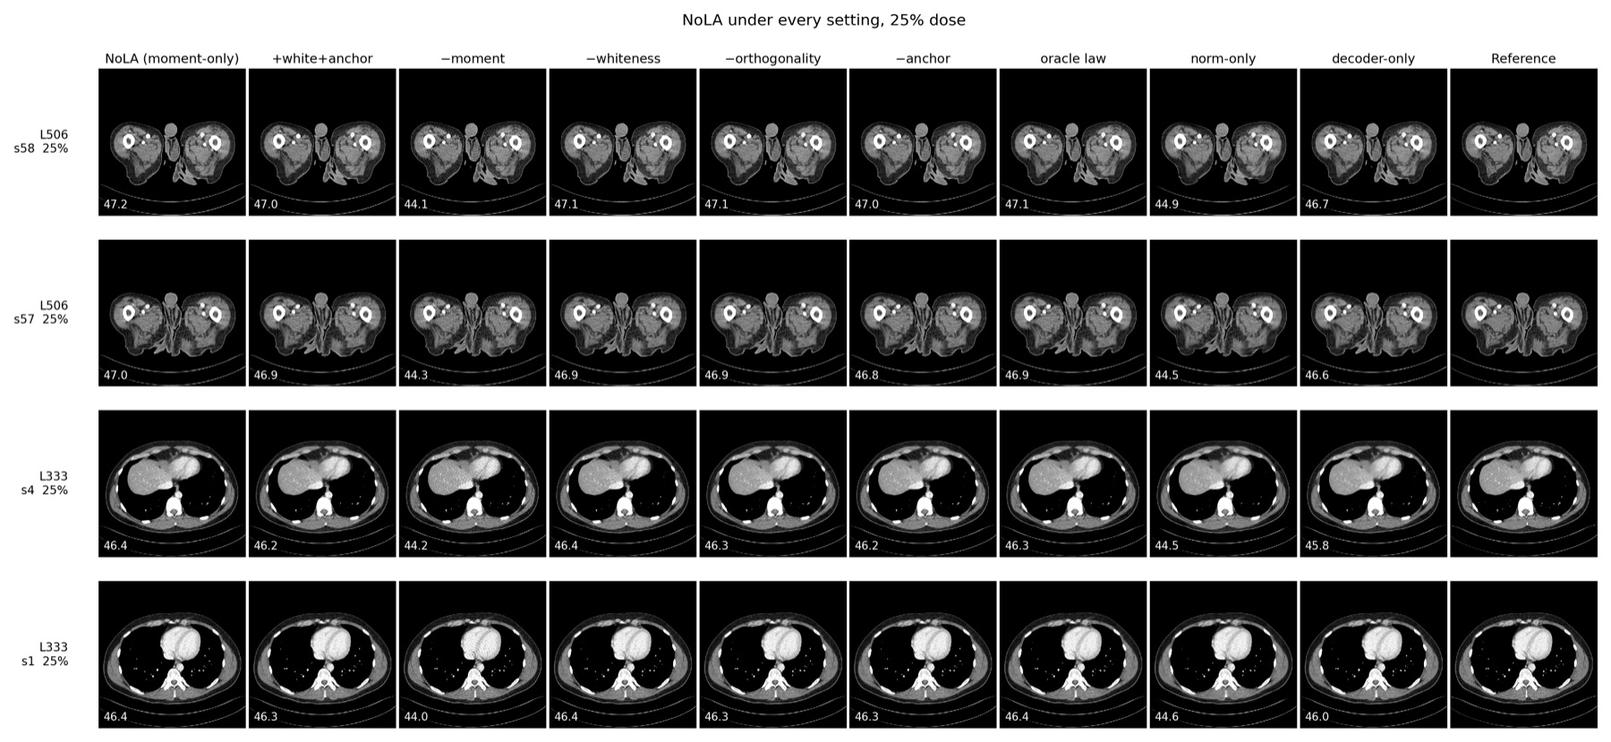
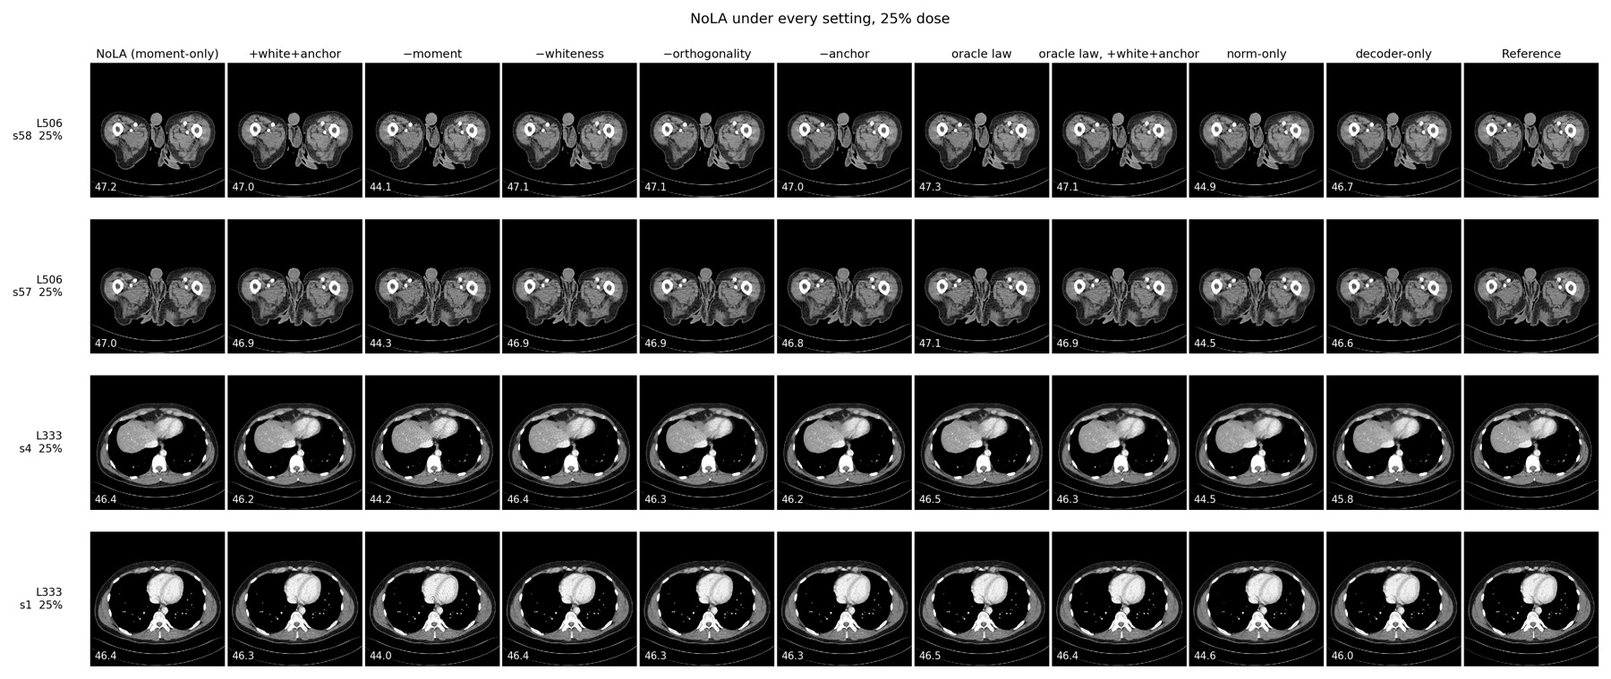
Oracle-law row rerun with the final objective (like-for-like); site law/rho columns read from the audit

diff --git a/docs/index.html b/docs/index.html
@@ -394,8 +394,10 @@ footer a{color:var(--accent)}
   40.55 (−1.65 dB)</b>, worse on three of four patients, better on one — and
   <b>+2.22 dB better than the previous formulation</b> on 100% of slices: the
   whiteness and anchor terms were responsible for most of the earlier failure.
-  Global-Variance TTA is actively destructive here (max|ρ| 0.834, the most
-  correlated residual of any method). Only supervised fine-tuning helps
+  It is not estimation error: the estimated law is within 3% of the truth, and
+  the same objective run with the <i>true</i> law is worse still (36.30 dB) while
+  matching the law better. Global-Variance TTA is actively destructive here
+  (max|ρ| 0.834, the most correlated residual of any method). Only supervised fine-tuning helps
   (+2.27 dB). The mismatch score flags this regime in advance: D = 1.05,
   the borderline the controlled grid identified.</p>
   <figure>
@@ -426,8 +428,9 @@ footer a{color:var(--accent)}
   <h3>Estimator accuracy</h3>
   <p>From unlabelled sinograms of the six adaptation patients, relative error on
   (I₀, σ<sub>e</sub>) is (4.3%, 7.9%) at 25% dose, (2.9%, 4.5%) at 10% and
-  (2.4%, 5.7%) at 5%. Supplying the <i>true</i> law instead of the estimate is
-  worth only 0.15 dB — the estimator is not the bottleneck.</p>
+  (2.4%, 5.7%) at 5%. Supplying the <i>true</i> law instead of the estimate,
+  with the objective otherwise unchanged, is worth 0.14 dB (43.64 vs 43.50,
+  on every held-out slice) — the estimator is not the bottleneck.</p>
   <figure>
     <img src="assets/fig7_identifiability.jpg" alt="Identifiability of sigma_e">
     <figcaption><b>Why σ<sub>e</sub> is the harder parameter.</b> The electronic
@@ -489,7 +492,7 @@ python examples/demo.py --target-i0 8000 --target-sigma-e 12</pre>
 </div></footer>
 
 <script>
-const DATA = {"grid": {"cells": [{"i0": 7500.0, "sigma_e": 4.999999999999999, "shift": 0.48427008146732964, "delta_psnr": 1.041401743888855, "diverged": false}, {"i0": 7500.0, "sigma_e": 9.999999999999998, "shift": 0.5038168825848164, "delta_psnr": -0.9437749505043058, "diverged": false}, {"i0": 7500.0, "sigma_e": 0.0, "shift": 0.604892132805058, "delta_psnr": 2.212035608291629, "diverged": false}, {"i0": 7500.0, "sigma_e": 19.999999999999996, "shift": 0.7821219459093485, "delta_psnr": -0.4595564365386977, "diverged": false}, {"i0": 15000.0, "sigma_e": 19.999999999999996, "shift": 0.9209822093415595, "delta_psnr": -0.4325530529022217, "diverged": false}, {"i0": 15000.0, "sigma_e": 9.999999999999998, "shift": 1.0536936093767086, "delta_psnr": 1.507194948196414, "diverged": false}, {"i0": 15000.0, "sigma_e": 4.999999999999999, "shift": 1.2140100375612208, "delta_psnr": 2.343731451034543, "diverged": false}, {"i0": 15000.0, "sigma_e": 0.0, "shift": 1.2980393133650034, "delta_psnr": 2.243452882766725, "diverged": false}, {"i0": 37500.0, "sigma_e": 20.0, "shift": 1.8660606920865557, "delta_psnr": 2.458268642425537, "diverged": false}, {"i0": 37500.0, "sigma_e": 10.0, "shift": 2.0894323105343506, "delta_psnr": 2.5287252902984605, "diverged": false}, {"i0": 37500.0, "sigma_e": 5.0, "shift": 2.177556095246869, "delta_psnr": 2.596667957305904, "diverged": false}, {"i0": 37500.0, "sigma_e": 0.0, "shift": 2.2143300452391586, "delta_psnr": 2.6607798576354966, "diverged": false}, {"i0": 75000.0, "sigma_e": 20.0, "shift": 2.692883003694689, "delta_psnr": 2.888873147964482, "diverged": false}, {"i0": 75000.0, "sigma_e": 10.0, "shift": 2.8383610269050505, "delta_psnr": 2.9683216571807876, "diverged": false}, {"i0": 75000.0, "sigma_e": 5.0, "shift": 2.88842862874868, "delta_psnr": 3.0502535343170223, "diverged": false}, {"i0": 75000.0, "sigma_e": 0.0, "shift": 2.9074772257991035, "delta_psnr": 3.042654466629031, "diverged": false}], "correlations": {"delta_psnr": {"rho": 0.9529411764705882, "p": 1.2096579348829016e-08}, "law_match_b0": {"rho": 0.9676470588235294, "p": 9.132894807195552e-10}}}, "metrics": [{"name": "FBP", "cls": "none", "psnr_op": 33.438, "ssim_op": 0.7448, "sino_nrmse": 0.0183, "psnr": 33.1203, "ssim": 0.7189, "ms_ssim": 0.9461, "vif": 0.5795, "gmsd": 0.0607, "lpips": 0.3674, "dists": 0.2624, "fd_nps_shape_distance": 0.4515, "fd_nps_power_ratio": 4.8572}, {"name": "Source-only", "cls": "labelfree", "psnr_op": 40.5291, "ssim_op": 0.9619, "sino_nrmse": 0.007, "psnr": 38.4882, "ssim": 0.9284, "ms_ssim": 0.98, "vif": 0.3971, "gmsd": 0.0458, "lpips": 0.2323, "dists": 0.2213, "fd_nps_shape_distance": 0.4767, "fd_nps_power_ratio": 0.0767}, {"name": "AdaBN", "cls": "labelfree", "psnr_op": 41.6047, "ssim_op": 0.9684, "sino_nrmse": 0.0064, "psnr": 39.3209, "ssim": 0.9366, "ms_ssim": 0.9842, "vif": 0.4393, "gmsd": 0.0354, "lpips": 0.195, "dists": 0.1917, "fd_nps_shape_distance": 0.6524, "fd_nps_power_ratio": 0.1307}, {"name": "Noise2Inverse (K=2)", "cls": "labelfree", "psnr_op": 41.4708, "ssim_op": 0.9464, "sino_nrmse": null, "psnr": 39.5232, "ssim": 0.9199, "ms_ssim": 0.9828, "vif": 0.4855, "gmsd": 0.0317, "lpips": 0.2314, "dists": 0.1811, "fd_nps_shape_distance": 1.063, "fd_nps_power_ratio": 0.6495}, {"name": "Noise2Inverse (K=4)", "cls": "labelfree", "psnr_op": 36.4484, "ssim_op": 0.925, "sino_nrmse": null, "psnr": 35.5151, "ssim": 0.8968, "ms_ssim": 0.9721, "vif": 0.3789, "gmsd": 0.0648, "lpips": 0.2337, "dists": 0.1746, "fd_nps_shape_distance": 1.2177, "fd_nps_power_ratio": 0.7796}, {"name": "Masked SSL-TTA", "cls": "labelfree", "psnr_op": 40.4464, "ssim_op": 0.9232, "sino_nrmse": 0.0076, "psnr": 39.4051, "ssim": 0.8992, "ms_ssim": 0.9848, "vif": 0.5814, "gmsd": 0.0184, "lpips": 0.203, "dists": 0.1794, "fd_nps_shape_distance": 0.4215, "fd_nps_power_ratio": 0.7142}, {"name": "Global-Variance TTA", "cls": "labelfree", "psnr_op": 43.3445, "ssim_op": 0.9647, "sino_nrmse": 0.006, "psnr": 40.8229, "ssim": 0.9375, "ms_ssim": 0.9871, "vif": 0.5519, "gmsd": 0.0241, "lpips": 0.1358, "dists": 0.1271, "fd_nps_shape_distance": 1.0871, "fd_nps_power_ratio": 0.5074}, {"name": "NoLA", "cls": "ours", "psnr_op": 43.4957, "ssim_op": 0.9665, "sino_nrmse": 0.0054, "psnr": 40.7464, "ssim": 0.9384, "ms_ssim": 0.9871, "vif": 0.5361, "gmsd": 0.0244, "lpips": 0.1398, "dists": 0.139, "fd_nps_shape_distance": 1.0471, "fd_nps_power_ratio": 0.3964}, {"name": "NoLA + white + anchor", "cls": "ablation", "psnr_op": 43.3254, "ssim_op": 0.9659, "sino_nrmse": 0.0054, "psnr": 40.653, "ssim": 0.9374, "ms_ssim": 0.987, "vif": 0.5189, "gmsd": 0.0245, "lpips": 0.1609, "dists": 0.1573, "fd_nps_shape_distance": 0.8876, "fd_nps_power_ratio": 0.3266}, {"name": "NoLA + whiteness", "cls": "ablation", "psnr_op": 43.3217, "ssim_op": 0.9658, "sino_nrmse": 0.0055, "psnr": 40.648, "ssim": 0.9372, "ms_ssim": 0.9871, "vif": 0.5195, "gmsd": 0.0243, "lpips": 0.1604, "dists": 0.157, "fd_nps_shape_distance": 0.8911, "fd_nps_power_ratio": 0.3301}, {"name": "NoLA + anchor", "cls": "ablation", "psnr_op": 43.5928, "ssim_op": 0.9676, "sino_nrmse": 0.0055, "psnr": 40.863, "ssim": 0.9397, "ms_ssim": 0.9873, "vif": 0.5403, "gmsd": 0.0239, "lpips": 0.1355, "dists": 0.1353, "fd_nps_shape_distance": 1.0822, "fd_nps_power_ratio": 0.4024}, {"name": "NoLA oracle law", "cls": "oracle", "psnr_op": 43.4773, "ssim_op": 0.9672, "sino_nrmse": 0.0054, "psnr": 40.7529, "ssim": 0.9387, "ms_ssim": 0.9875, "vif": 0.5212, "gmsd": 0.0233, "lpips": 0.1583, "dists": 0.1553, "fd_nps_shape_distance": 0.8912, "fd_nps_power_ratio": 0.3096}, {"name": "Supervised FT", "cls": "supervised", "psnr_op": 45.0577, "ssim_op": 0.9775, "sino_nrmse": 0.004, "psnr": 41.7811, "ssim": 0.9488, "ms_ssim": 0.9905, "vif": 0.5465, "gmsd": 0.0167, "lpips": 0.1252, "dists": 0.1306, "fd_nps_shape_distance": 1.0233, "fd_nps_power_ratio": 0.2456}, {"name": "RED-CNN (retrained)", "cls": "supervised", "psnr_op": 45.9636, "ssim_op": 0.9795, "sino_nrmse": null, "psnr": 42.5552, "ssim": 0.9539, "ms_ssim": 0.9911, "vif": 0.542, "gmsd": 0.0155, "lpips": 0.1821, "dists": 0.1405, "fd_nps_shape_distance": 2.4311, "fd_nps_power_ratio": 0.1732}, {"name": "CTformer (retrained)", "cls": "supervised", "psnr_op": 38.3589, "ssim_op": 0.8962, "sino_nrmse": null, "psnr": 37.1341, "ssim": 0.8593, "ms_ssim": 0.9765, "vif": 0.4938, "gmsd": 0.0298, "lpips": 0.2685, "dists": 0.2011, "fd_nps_shape_distance": 0.4705, "fd_nps_power_ratio": 1.1909}], "sweep": [{"w": 0.0, "psnr": 43.593, "rho": 0.0997, "law": 0.2132, "nps": 1.082, "lpips": 0.1355}, {"w": 0.1, "psnr": 43.385, "rho": 0.0587, "law": 0.285, "nps": 0.972, "lpips": 0.1514}, {"w": 0.25, "psnr": 43.269, "rho": 0.0312, "law": 0.3371, "nps": 0.919, "lpips": 0.1581}, {"w": 0.5, "psnr": 43.237, "rho": 0.0235, "law": 0.3525, "nps": 0.879, "lpips": 0.1617}, {"w": 1.0, "psnr": 43.325, "rho": 0.0238, "law": 0.2528, "nps": 0.888, "lpips": 0.1609}], "audit": {"25": [{"n": "Source-only", "law": 0.4946, "rho": 0.4067, "psnr": 40.53}, {"n": "AdaBN", "law": 0.354, "rho": 0.2816, "psnr": 41.6}, {"n": "Masked SSL-TTA", "law": 0.6067, "rho": 0.2081, "psnr": 40.45}, {"n": "Global-Variance TTA", "law": 0.4376, "rho": 0.6344, "psnr": 43.34}, {"n": "NoLA", "law": 0.1496, "rho": 0.0997, "psnr": 43.5}, {"n": "NoLA + white + anchor", "law": 0.2528, "rho": 0.0238, "psnr": 43.33}, {"n": "Supervised FT", "law": 0.5441, "rho": 0.0707, "psnr": 45.06}]}};
+const DATA = {"grid": {"cells": [{"i0": 7500.0, "sigma_e": 4.999999999999999, "shift": 0.48427008146732964, "delta_psnr": 1.041401743888855, "diverged": false}, {"i0": 7500.0, "sigma_e": 9.999999999999998, "shift": 0.5038168825848164, "delta_psnr": -0.9437749505043058, "diverged": false}, {"i0": 7500.0, "sigma_e": 0.0, "shift": 0.604892132805058, "delta_psnr": 2.212035608291629, "diverged": false}, {"i0": 7500.0, "sigma_e": 19.999999999999996, "shift": 0.7821219459093485, "delta_psnr": -0.4595564365386977, "diverged": false}, {"i0": 15000.0, "sigma_e": 19.999999999999996, "shift": 0.9209822093415595, "delta_psnr": -0.4325530529022217, "diverged": false}, {"i0": 15000.0, "sigma_e": 9.999999999999998, "shift": 1.0536936093767086, "delta_psnr": 1.507194948196414, "diverged": false}, {"i0": 15000.0, "sigma_e": 4.999999999999999, "shift": 1.2140100375612208, "delta_psnr": 2.343731451034543, "diverged": false}, {"i0": 15000.0, "sigma_e": 0.0, "shift": 1.2980393133650034, "delta_psnr": 2.243452882766725, "diverged": false}, {"i0": 37500.0, "sigma_e": 20.0, "shift": 1.8660606920865557, "delta_psnr": 2.458268642425537, "diverged": false}, {"i0": 37500.0, "sigma_e": 10.0, "shift": 2.0894323105343506, "delta_psnr": 2.5287252902984605, "diverged": false}, {"i0": 37500.0, "sigma_e": 5.0, "shift": 2.177556095246869, "delta_psnr": 2.596667957305904, "diverged": false}, {"i0": 37500.0, "sigma_e": 0.0, "shift": 2.2143300452391586, "delta_psnr": 2.6607798576354966, "diverged": false}, {"i0": 75000.0, "sigma_e": 20.0, "shift": 2.692883003694689, "delta_psnr": 2.888873147964482, "diverged": false}, {"i0": 75000.0, "sigma_e": 10.0, "shift": 2.8383610269050505, "delta_psnr": 2.9683216571807876, "diverged": false}, {"i0": 75000.0, "sigma_e": 5.0, "shift": 2.88842862874868, "delta_psnr": 3.0502535343170223, "diverged": false}, {"i0": 75000.0, "sigma_e": 0.0, "shift": 2.9074772257991035, "delta_psnr": 3.042654466629031, "diverged": false}], "correlations": {"delta_psnr": {"rho": 0.9529411764705882, "p": 1.2096579348829016e-08}, "law_match_b0": {"rho": 0.9676470588235294, "p": 9.132894807195552e-10}}}, "metrics": [{"name": "FBP", "cls": "none", "psnr_op": 33.438, "ssim_op": 0.7448, "sino_nrmse": 0.0183, "psnr": 33.1203, "ssim": 0.7189, "ms_ssim": 0.9461, "vif": 0.5795, "gmsd": 0.0607, "lpips": 0.3674, "dists": 0.2624, "fd_nps_shape_distance": 0.4515, "fd_nps_power_ratio": 4.8572}, {"name": "Source-only", "cls": "labelfree", "psnr_op": 40.5291, "ssim_op": 0.9619, "sino_nrmse": 0.007, "psnr": 38.4882, "ssim": 0.9284, "ms_ssim": 0.98, "vif": 0.3971, "gmsd": 0.0458, "lpips": 0.2323, "dists": 0.2213, "fd_nps_shape_distance": 0.4767, "fd_nps_power_ratio": 0.0767}, {"name": "AdaBN", "cls": "labelfree", "psnr_op": 41.6047, "ssim_op": 0.9684, "sino_nrmse": 0.0064, "psnr": 39.3209, "ssim": 0.9366, "ms_ssim": 0.9842, "vif": 0.4393, "gmsd": 0.0354, "lpips": 0.195, "dists": 0.1917, "fd_nps_shape_distance": 0.6524, "fd_nps_power_ratio": 0.1307}, {"name": "Noise2Inverse (K=2)", "cls": "labelfree", "psnr_op": 41.4708, "ssim_op": 0.9464, "sino_nrmse": null, "psnr": 39.5232, "ssim": 0.9199, "ms_ssim": 0.9828, "vif": 0.4855, "gmsd": 0.0317, "lpips": 0.2314, "dists": 0.1811, "fd_nps_shape_distance": 1.063, "fd_nps_power_ratio": 0.6495}, {"name": "Noise2Inverse (K=4)", "cls": "labelfree", "psnr_op": 36.4484, "ssim_op": 0.925, "sino_nrmse": null, "psnr": 35.5151, "ssim": 0.8968, "ms_ssim": 0.9721, "vif": 0.3789, "gmsd": 0.0648, "lpips": 0.2337, "dists": 0.1746, "fd_nps_shape_distance": 1.2177, "fd_nps_power_ratio": 0.7796}, {"name": "Masked SSL-TTA", "cls": "labelfree", "psnr_op": 40.4464, "ssim_op": 0.9232, "sino_nrmse": 0.0076, "psnr": 39.4051, "ssim": 0.8992, "ms_ssim": 0.9848, "vif": 0.5814, "gmsd": 0.0184, "lpips": 0.203, "dists": 0.1794, "fd_nps_shape_distance": 0.4215, "fd_nps_power_ratio": 0.7142}, {"name": "Global-Variance TTA", "cls": "labelfree", "psnr_op": 43.3445, "ssim_op": 0.9647, "sino_nrmse": 0.006, "psnr": 40.8229, "ssim": 0.9375, "ms_ssim": 0.9871, "vif": 0.5519, "gmsd": 0.0241, "lpips": 0.1358, "dists": 0.1271, "fd_nps_shape_distance": 1.0871, "fd_nps_power_ratio": 0.5074}, {"name": "NoLA", "cls": "ours", "psnr_op": 43.4957, "ssim_op": 0.9665, "sino_nrmse": 0.0054, "psnr": 40.7464, "ssim": 0.9384, "ms_ssim": 0.9871, "vif": 0.5361, "gmsd": 0.0244, "lpips": 0.1398, "dists": 0.139, "fd_nps_shape_distance": 1.0471, "fd_nps_power_ratio": 0.3964}, {"name": "NoLA + white + anchor", "cls": "ablation", "psnr_op": 43.3254, "ssim_op": 0.9659, "sino_nrmse": 0.0054, "psnr": 40.653, "ssim": 0.9374, "ms_ssim": 0.987, "vif": 0.5189, "gmsd": 0.0245, "lpips": 0.1609, "dists": 0.1573, "fd_nps_shape_distance": 0.8876, "fd_nps_power_ratio": 0.3266}, {"name": "NoLA + whiteness", "cls": "ablation", "psnr_op": 43.3217, "ssim_op": 0.9658, "sino_nrmse": 0.0055, "psnr": 40.648, "ssim": 0.9372, "ms_ssim": 0.9871, "vif": 0.5195, "gmsd": 0.0243, "lpips": 0.1604, "dists": 0.157, "fd_nps_shape_distance": 0.8911, "fd_nps_power_ratio": 0.3301}, {"name": "NoLA + anchor", "cls": "ablation", "psnr_op": 43.5928, "ssim_op": 0.9676, "sino_nrmse": 0.0055, "psnr": 40.863, "ssim": 0.9397, "ms_ssim": 0.9873, "vif": 0.5403, "gmsd": 0.0239, "lpips": 0.1355, "dists": 0.1353, "fd_nps_shape_distance": 1.0822, "fd_nps_power_ratio": 0.4024}, {"name": "NoLA oracle law", "cls": "oracle", "psnr_op": 43.6378, "ssim_op": 0.9673, "sino_nrmse": 0.0053, "psnr": 40.866, "ssim": 0.9394, "ms_ssim": 0.9874, "vif": 0.5413, "gmsd": 0.0235, "lpips": 0.1354, "dists": 0.1346, "fd_nps_shape_distance": 1.0628, "fd_nps_power_ratio": 0.4008}, {"name": "NoLA + white + anchor, oracle law", "cls": "ablation", "psnr_op": 43.4773, "ssim_op": 0.9672, "sino_nrmse": 0.0054, "psnr": 40.7529, "ssim": 0.9387, "ms_ssim": 0.9875, "vif": 0.5212, "gmsd": 0.0233, "lpips": 0.1583, "dists": 0.1553, "fd_nps_shape_distance": 0.8912, "fd_nps_power_ratio": 0.3096}, {"name": "Supervised FT", "cls": "supervised", "psnr_op": 45.0577, "ssim_op": 0.9775, "sino_nrmse": 0.004, "psnr": 41.7811, "ssim": 0.9488, "ms_ssim": 0.9905, "vif": 0.5465, "gmsd": 0.0167, "lpips": 0.1252, "dists": 0.1306, "fd_nps_shape_distance": 1.0233, "fd_nps_power_ratio": 0.2456}, {"name": "RED-CNN (retrained)", "cls": "supervised", "psnr_op": 45.9636, "ssim_op": 0.9795, "sino_nrmse": null, "psnr": 42.5552, "ssim": 0.9539, "ms_ssim": 0.9911, "vif": 0.542, "gmsd": 0.0155, "lpips": 0.1821, "dists": 0.1405, "fd_nps_shape_distance": 2.4311, "fd_nps_power_ratio": 0.1732}, {"name": "CTformer (retrained)", "cls": "supervised", "psnr_op": 38.3589, "ssim_op": 0.8962, "sino_nrmse": null, "psnr": 37.1341, "ssim": 0.8593, "ms_ssim": 0.9765, "vif": 0.4938, "gmsd": 0.0298, "lpips": 0.2685, "dists": 0.2011, "fd_nps_shape_distance": 0.4705, "fd_nps_power_ratio": 1.1909}], "sweep": [{"w": 0.0, "psnr": 43.593, "rho": 0.0997, "law": 0.2132, "nps": 1.082, "lpips": 0.1355}, {"w": 0.1, "psnr": 43.385, "rho": 0.0587, "law": 0.285, "nps": 0.972, "lpips": 0.1514}, {"w": 0.25, "psnr": 43.269, "rho": 0.0312, "law": 0.3371, "nps": 0.919, "lpips": 0.1581}, {"w": 0.5, "psnr": 43.237, "rho": 0.0235, "law": 0.3525, "nps": 0.879, "lpips": 0.1617}, {"w": 1.0, "psnr": 43.325, "rho": 0.0238, "law": 0.2528, "nps": 0.888, "lpips": 0.1609}], "audit": {"25": [{"n": "Source-only", "law": 0.4946, "rho": 0.4067, "psnr": 40.53}, {"n": "AdaBN", "law": 0.354, "rho": 0.2816, "psnr": 41.6}, {"n": "Masked SSL-TTA", "law": 0.6067, "rho": 0.2081, "psnr": 40.45}, {"n": "Global-Variance TTA", "law": 0.4376, "rho": 0.6344, "psnr": 43.34}, {"n": "NoLA", "law": 0.1496, "rho": 0.0997, "psnr": 43.5}, {"n": "NoLA oracle law", "law": 0.2793, "rho": 0.0969, "psnr": 43.64}, {"n": "NoLA + white + anchor", "law": 0.2528, "rho": 0.0238, "psnr": 43.33}, {"n": "Supervised FT", "law": 0.5441, "rho": 0.0707, "psnr": 45.06}]}, "audit_extra": [{"n": "NoLA + whiteness", "law": 0.2723, "rho": 0.0186}, {"n": "NoLA + anchor", "law": 0.2132, "rho": 0.0997}, {"n": "NoLA + white + anchor, oracle law", "law": 0.3047, "rho": 0.0202}]};
 (function(){
 const NS="http://www.w3.org/2000/svg";
 const el=(t,a)=>{const e=document.createElementNS(NS,t);for(const k in(a||{}))e.setAttribute(k,a[k]);return e;};
@@ -581,8 +584,8 @@ const ALL=[["name","Method",null],["psnr_op","PSNR_op",1],["ssim_op","SSIM_op",1
   ["gmsd","GMSD",-1],["lpips","LPIPS",-1],["dists","DISTS",-1],
   ["fd_nps_shape_distance","NPS shape",-1],["fd_nps_power_ratio","NPS power",0]];
 const AUD=[["name","Method",null],["law","Law err.",-1],["rho","max|ρ|",-1],["psnr","PSNR_op",1]];
-const STAT={"Source-only":[0.494,0.4067],"AdaBN":[0.354,0.2816],"NoLA":[0.253,0.0238],
-  "Supervised FT":[0.544,0.0707],"-whiteness":[0.213,0.0997]};
+const STAT=Object.fromEntries([...(((DATA.audit||{})["25"])||[]),...(DATA.audit_extra||[])]
+  .map(a=>[a.n,[a.law,a.rho]]));
 const CLSCOL={none:GREY,labelfree:BLUE,ours:OURS,oracle:WARN,supervised:OK,ablation:"#8892a0"};
 function enrich(){
   const base=(DATA.metrics||[]).find(x=>x.name==="Source-only");
@@ -638,7 +641,7 @@ function drawTable(){
   render("tmain",MAIN,all.filter(r=>HEADLINE.includes(r.name)),S1);
   render("tall",ALL,all,S2,GRP);
   render("taud",AUD,DATA.audit["25"].map(d=>({name:d.n,law:d.law,rho:d.rho,psnr:d.psnr,
-    cls:d.n==="NoLA"?"ours":(d.n==="Supervised FT"?"supervised":"labelfree")})),S3);
+    cls:d.n==="NoLA"?"ours":(d.n==="Supervised FT"?"supervised":(d.n==="NoLA oracle law"?"oracle":"labelfree"))})),S3);
   document.getElementById("tablegend").innerHTML=
     [["no denoising",GREY],["label-free",BLUE],["NoLA (ours)",OURS],
      ["oracle law",WARN],["supervised on target",OK]].map(([l,c])=>
@@ -680,13 +683,13 @@ function drawAudit(){
   [40,41,42,43,44,45].forEach(g=>{if(g<y0||g>y1)return;
     s.appendChild(el("line",{x1:L,x2:W-R,y1:Y(g),y2:Y(g),class:"gr"}));
     const t=el("text",{x:L-7,y:Y(g)+3,class:"tx","text-anchor":"end"});t.textContent=g;s.appendChild(t);});
-  const col=n=>n==="NoLA"?OURS:(n==="Supervised FT"?OK:(n==="NoLA + white + anchor"?"#8892a0":BLUE));
+  const col=n=>n==="NoLA"?OURS:(n==="Supervised FT"?OK:(n==="NoLA + white + anchor"?"#8892a0":(n==="NoLA oracle law"?WARN:BLUE)));
   pts.forEach(q=>{
     const c=el("circle",{cx:X(q.law),cy:Y(q.psnr),r:q.n==="NoLA"?6.5:4.6,fill:col(q.n),
       stroke:"#fff","stroke-width":1.4});
     const ti=el("title");ti.textContent=q.n+": law "+q.law.toFixed(3)+", max|ρ| "+
       q.rho.toFixed(4)+", "+q.psnr.toFixed(2)+" dB";c.appendChild(ti);s.appendChild(c);
-    const dy=(q.n==="Global-Variance TTA"||q.n==="AdaBN")?-9:5;
+    const dy=(q.n==="Global-Variance TTA"||q.n==="AdaBN"||q.n==="NoLA oracle law")?-9:5;
     const t=el("text",{x:X(q.law)+9,y:Y(q.psnr)+dy,class:"tx",fill:col(q.n),
       style:q.n==="NoLA"?"font-weight:700":""});t.textContent=q.n;s.appendChild(t);});
   const xl=el("text",{x:(L+W-R)/2,y:H-8,class:"tx","text-anchor":"middle"});

diff --git a/docs/index.template.html b/docs/index.template.html
@@ -394,8 +394,10 @@ footer a{color:var(--accent)}
   40.55 (−1.65 dB)</b>, worse on three of four patients, better on one — and
   <b>+2.22 dB better than the previous formulation</b> on 100% of slices: the
   whiteness and anchor terms were responsible for most of the earlier failure.
-  Global-Variance TTA is actively destructive here (max|ρ| 0.834, the most
-  correlated residual of any method). Only supervised fine-tuning helps
+  It is not estimation error: the estimated law is within 3% of the truth, and
+  the same objective run with the <i>true</i> law is worse still (36.30 dB) while
+  matching the law better. Global-Variance TTA is actively destructive here
+  (max|ρ| 0.834, the most correlated residual of any method). Only supervised fine-tuning helps
   (+2.27 dB). The mismatch score flags this regime in advance: D = 1.05,
   the borderline the controlled grid identified.</p>
   <figure>
@@ -426,8 +428,9 @@ footer a{color:var(--accent)}
   <h3>Estimator accuracy</h3>
   <p>From unlabelled sinograms of the six adaptation patients, relative error on
   (I₀, σ<sub>e</sub>) is (4.3%, 7.9%) at 25% dose, (2.9%, 4.5%) at 10% and
-  (2.4%, 5.7%) at 5%. Supplying the <i>true</i> law instead of the estimate is
-  worth only 0.15 dB — the estimator is not the bottleneck.</p>
+  (2.4%, 5.7%) at 5%. Supplying the <i>true</i> law instead of the estimate,
+  with the objective otherwise unchanged, is worth 0.14 dB (43.64 vs 43.50,
+  on every held-out slice) — the estimator is not the bottleneck.</p>
   <figure>
     <img src="assets/fig7_identifiability.jpg" alt="Identifiability of sigma_e">
     <figcaption><b>Why σ<sub>e</sub> is the harder parameter.</b> The electronic
@@ -581,8 +584,8 @@ const ALL=[["name","Method",null],["psnr_op","PSNR_op",1],["ssim_op","SSIM_op",1
   ["gmsd","GMSD",-1],["lpips","LPIPS",-1],["dists","DISTS",-1],
   ["fd_nps_shape_distance","NPS shape",-1],["fd_nps_power_ratio","NPS power",0]];
 const AUD=[["name","Method",null],["law","Law err.",-1],["rho","max|ρ|",-1],["psnr","PSNR_op",1]];
-const STAT={"Source-only":[0.494,0.4067],"AdaBN":[0.354,0.2816],"NoLA":[0.253,0.0238],
-  "Supervised FT":[0.544,0.0707],"-whiteness":[0.213,0.0997]};
+const STAT=Object.fromEntries([...(((DATA.audit||{})["25"])||[]),...(DATA.audit_extra||[])]
+  .map(a=>[a.n,[a.law,a.rho]]));
 const CLSCOL={none:GREY,labelfree:BLUE,ours:OURS,oracle:WARN,supervised:OK,ablation:"#8892a0"};
 function enrich(){
   const base=(DATA.metrics||[]).find(x=>x.name==="Source-only");
@@ -638,7 +641,7 @@ function drawTable(){
   render("tmain",MAIN,all.filter(r=>HEADLINE.includes(r.name)),S1);
   render("tall",ALL,all,S2,GRP);
   render("taud",AUD,DATA.audit["25"].map(d=>({name:d.n,law:d.law,rho:d.rho,psnr:d.psnr,
-    cls:d.n==="NoLA"?"ours":(d.n==="Supervised FT"?"supervised":"labelfree")})),S3);
+    cls:d.n==="NoLA"?"ours":(d.n==="Supervised FT"?"supervised":(d.n==="NoLA oracle law"?"oracle":"labelfree"))})),S3);
   document.getElementById("tablegend").innerHTML=
     [["no denoising",GREY],["label-free",BLUE],["NoLA (ours)",OURS],
      ["oracle law",WARN],["supervised on target",OK]].map(([l,c])=>
@@ -680,13 +683,13 @@ function drawAudit(){
   [40,41,42,43,44,45].forEach(g=>{if(g<y0||g>y1)return;
     s.appendChild(el("line",{x1:L,x2:W-R,y1:Y(g),y2:Y(g),class:"gr"}));
     const t=el("text",{x:L-7,y:Y(g)+3,class:"tx","text-anchor":"end"});t.textContent=g;s.appendChild(t);});
-  const col=n=>n==="NoLA"?OURS:(n==="Supervised FT"?OK:(n==="NoLA + white + anchor"?"#8892a0":BLUE));
+  const col=n=>n==="NoLA"?OURS:(n==="Supervised FT"?OK:(n==="NoLA + white + anchor"?"#8892a0":(n==="NoLA oracle law"?WARN:BLUE)));
   pts.forEach(q=>{
     const c=el("circle",{cx:X(q.law),cy:Y(q.psnr),r:q.n==="NoLA"?6.5:4.6,fill:col(q.n),
       stroke:"#fff","stroke-width":1.4});
     const ti=el("title");ti.textContent=q.n+": law "+q.law.toFixed(3)+", max|ρ| "+
       q.rho.toFixed(4)+", "+q.psnr.toFixed(2)+" dB";c.appendChild(ti);s.appendChild(c);
-    const dy=(q.n==="Global-Variance TTA"||q.n==="AdaBN")?-9:5;
+    const dy=(q.n==="Global-Variance TTA"||q.n==="AdaBN"||q.n==="NoLA oracle law")?-9:5;
     const t=el("text",{x:X(q.law)+9,y:Y(q.psnr)+dy,class:"tx",fill:col(q.n),
       style:q.n==="NoLA"?"font-weight:700":""});t.textContent=q.n;s.appendChild(t);});
   const xl=el("text",{x:(L+W-R)/2,y:H-8,class:"tx","text-anchor":"middle"});

diff --git a/docs/build_site.py b/docs/build_site.py
@@ -47,10 +47,19 @@ def main() -> int:
                {"n": "Masked SSL-TTA", "law": 0.6067, "rho": 0.2081, "psnr": 40.45},
                {"n": "Global-Variance TTA", "law": 0.4376, "rho": 0.6344, "psnr": 43.34},
                {"n": "NoLA", "law": 0.1496, "rho": 0.0997, "psnr": 43.50},
+               {"n": "NoLA oracle law", "law": 0.2793, "rho": 0.0969, "psnr": 43.64},
                {"n": "NoLA + white + anchor", "law": 0.2528, "rho": 0.0238, "psnr": 43.33},
                {"n": "Supervised FT", "law": 0.5441, "rho": 0.0707, "psnr": 45.06}],
     }
-    payload = {"grid": grid, "metrics": metrics, "sweep": sweep, "audit": audit}
+    # Ablation rows: in the big table's law/rho columns only, not on the
+    # scatter, where their labels would sit on top of NoLA's.
+    audit_extra = [
+        {"n": "NoLA + whiteness", "law": 0.2723, "rho": 0.0186},
+        {"n": "NoLA + anchor", "law": 0.2132, "rho": 0.0997},
+        {"n": "NoLA + white + anchor, oracle law", "law": 0.3047, "rho": 0.0202},
+    ]
+    payload = {"grid": grid, "metrics": metrics, "sweep": sweep, "audit": audit,
+               "audit_extra": audit_extra}
 
     html = TEMPLATE.read_text().replace(
         "/*__DATA__*/", "const DATA = " + json.dumps(payload) + ";")

diff --git a/docs/all_metrics_dose25.md b/docs/all_metrics_dose25.md
@@ -18,7 +18,8 @@
 |   $+$anchor | 43.59 ± 1.69 | 0.9676 ± 0.0127 | 0.0055 ± 0.0013 |
 |   $+$whiteness $+$anchor | 43.33 ± 1.69 | 0.9659 ± 0.0145 | 0.0054 ± 0.0012 |
 |   whiteness$+$anchor, no moment | 42.58 ± 0.93 | 0.9578 ± 0.0071 | 0.0065 ± 0.0005 |
-| NoLA, oracle law | 43.48 ± 1.61 | 0.9672 ± 0.0131 | 0.0054 ± 0.0012 |
+| NoLA, oracle law | 43.64 ± 1.81 | 0.9673 ± 0.0144 | 0.0053 ± 0.0012 |
+|   $+$whiteness $+$anchor, oracle law | 43.48 ± 1.61 | 0.9672 ± 0.0131 | 0.0054 ± 0.0012 |
 | Supervised FT | 45.06 ± 0.94 | 0.9775 ± 0.0036 | **0.0040 ± 0.0001** |
 | RED-CNN (retrained) | **45.96 ± 1.15** | **0.9795 ± 0.0032** | -- |
 | CTformer (retrained) | 38.36 ± 1.47 | 0.8962 ± 0.0197 | -- |
@@ -41,7 +42,8 @@
 |   $+$anchor | 40.86 ± 1.10 | 0.9397 ± 0.0125 | 0.9873 ± 0.0051 | 0.5403 ± 0.0270 | 0.0239 ± 0.0096 | 0.1355 ± 0.0387 | 0.1353 ± 0.0155 |
 |   $+$whiteness $+$anchor | 40.65 ± 1.11 | 0.9374 ± 0.0142 | 0.9870 ± 0.0049 | 0.5189 ± 0.0270 | 0.0245 ± 0.0084 | 0.1609 ± 0.0481 | 0.1573 ± 0.0181 |
 |   whiteness$+$anchor, no moment | 40.35 ± 0.65 | 0.9291 ± 0.0072 | 0.9870 ± 0.0026 | 0.5240 ± 0.0274 | 0.0189 ± 0.0033 | 0.1381 ± 0.0391 | 0.1466 ± 0.0187 |
-| NoLA, oracle law | 40.75 ± 1.04 | 0.9387 ± 0.0129 | 0.9875 ± 0.0045 | 0.5212 ± 0.0269 | 0.0233 ± 0.0074 | 0.1583 ± 0.0469 | 0.1553 ± 0.0177 |
+| NoLA, oracle law | 40.87 ± 1.19 | 0.9394 ± 0.0143 | 0.9874 ± 0.0053 | 0.5413 ± 0.0273 | 0.0235 ± 0.0100 | 0.1354 ± 0.0405 | 0.1346 ± 0.0170 |
+|   $+$whiteness $+$anchor, oracle law | 40.75 ± 1.04 | 0.9387 ± 0.0129 | 0.9875 ± 0.0045 | 0.5212 ± 0.0269 | 0.0233 ± 0.0074 | 0.1583 ± 0.0469 | 0.1553 ± 0.0177 |
 | Supervised FT | 41.78 ± 0.59 | 0.9488 ± 0.0046 | 0.9905 ± 0.0020 | 0.5465 ± 0.0288 | 0.0167 ± 0.0030 | **0.1252 ± 0.0306** | 0.1306 ± 0.0147 |
 | RED-CNN (retrained) | **42.56 ± 0.74** | **0.9539 ± 0.0065** | **0.9911 ± 0.0020** | 0.5420 ± 0.0255 | **0.0155 ± 0.0028** | 0.1821 ± 0.0285 | 0.1405 ± 0.0050 |
 | CTformer (retrained) | 37.13 ± 1.22 | 0.8593 ± 0.0192 | 0.9765 ± 0.0065 | 0.4938 ± 0.0103 | 0.0298 ± 0.0108 | 0.2685 ± 0.0502 | 0.2011 ± 0.0171 |
@@ -64,7 +66,8 @@
 |   $+$anchor | 1.082 ± 0.057 | 0.402 ± 0.091 |
 |   $+$whiteness $+$anchor | 0.888 ± 0.084 | 0.327 ± 0.087 |
 |   whiteness$+$anchor, no moment | 0.846 ± 0.037 | 0.371 ± 0.079 |
-| NoLA, oracle law | 0.891 ± 0.087 | 0.310 ± 0.071 |
+| NoLA, oracle law | 1.063 ± 0.061 | 0.401 ± 0.110 |
+|   $+$whiteness $+$anchor, oracle law | 0.891 ± 0.087 | 0.310 ± 0.071 |
 | Supervised FT | 1.023 ± 0.085 | 0.246 ± 0.086 |
 | RED-CNN (retrained) | 2.431 ± 0.309 | 0.173 ± 0.065 |
 | CTformer (retrained) | 0.471 ± 0.059 | 1.191 ± 0.176 |

diff --git a/docs/all_metrics_dose10.md b/docs/all_metrics_dose10.md
@@ -16,7 +16,8 @@
 |   $+$anchor | 38.29 ± 2.57 | 0.9130 ± 0.0376 | 0.0143 ± 0.0045 |
 |   $+$whiteness $+$anchor | 36.68 ± 3.24 | 0.8506 ± 0.0844 | 0.0150 ± 0.0049 |
 |   whiteness$+$anchor, no moment | 40.40 ± 1.75 | 0.9397 ± 0.0212 | 0.0116 ± 0.0034 |
-| NoLA, oracle law | 38.35 ± 2.50 | 0.9080 ± 0.0425 | 0.0136 ± 0.0041 |
+| NoLA, oracle law | 36.30 ± 3.77 | 0.8450 ± 0.0923 | 0.0165 ± 0.0065 |
+|   $+$whiteness $+$anchor, oracle law | 38.35 ± 2.50 | 0.9080 ± 0.0425 | 0.0136 ± 0.0041 |
 | Supervised FT | **42.83 ± 1.06** | **0.9691 ± 0.0059** | **0.0055 ± 0.0004** |
 |   $-$orthogonality (old full) | 36.08 ± 3.73 | 0.8386 ± 0.0967 | 0.0165 ± 0.0064 |
 
@@ -35,7 +36,8 @@
 |   $+$anchor | 37.01 ± 2.10 | 0.8889 ± 0.0356 | 0.9609 ± 0.0185 | 0.4774 ± 0.0335 | 0.0687 ± 0.0233 | 0.2073 ± 0.0605 | 0.1801 ± 0.0279 |
 |   $+$whiteness $+$anchor | 35.49 ± 2.76 | 0.8250 ± 0.0828 | 0.9569 ± 0.0231 | 0.4500 ± 0.0378 | 0.0590 ± 0.0200 | 0.2667 ± 0.0861 | 0.2109 ± 0.0333 |
 |   whiteness$+$anchor, no moment | 38.72 ± 1.32 | 0.9133 ± 0.0196 | 0.9776 ± 0.0083 | 0.4668 ± 0.0327 | 0.0339 ± 0.0089 | 0.1865 ± 0.0566 | 0.1716 ± 0.0211 |
-| NoLA, oracle law | 37.02 ± 2.02 | 0.8828 ± 0.0407 | 0.9638 ± 0.0170 | 0.4592 ± 0.0328 | 0.0620 ± 0.0203 | 0.2331 ± 0.0679 | 0.2005 ± 0.0262 |
+| NoLA, oracle law | 35.11 ± 3.26 | 0.8210 ± 0.0897 | 0.9525 ± 0.0272 | 0.4646 ± 0.0395 | 0.0682 ± 0.0266 | 0.2546 ± 0.0887 | 0.1998 ± 0.0402 |
+|   $+$whiteness $+$anchor, oracle law | 37.02 ± 2.02 | 0.8828 ± 0.0407 | 0.9638 ± 0.0170 | 0.4592 ± 0.0328 | 0.0620 ± 0.0203 | 0.2331 ± 0.0679 | 0.2005 ± 0.0262 |
 | Supervised FT | **40.33 ± 0.73** | **0.9392 ± 0.0066** | **0.9853 ± 0.0036** | 0.4789 ± 0.0308 | **0.0274 ± 0.0047** | **0.1615 ± 0.0408** | **0.1601 ± 0.0158** |
 |   $-$orthogonality (old full) | 34.92 ± 3.22 | 0.8135 ± 0.0944 | 0.9518 ± 0.0280 | 0.4471 ± 0.0402 | 0.0657 ± 0.0251 | 0.2707 ± 0.0911 | 0.2140 ± 0.0364 |
 
@@ -54,7 +56,8 @@
 |   $+$anchor | 1.159 ± 0.082 | 1.933 ± 0.519 |
 |   $+$whiteness $+$anchor | 0.722 ± 0.129 | 2.545 ± 0.856 |
 |   whiteness$+$anchor, no moment | 0.762 ± 0.037 | 0.538 ± 0.039 |
-| NoLA, oracle law | 0.828 ± 0.080 | 1.492 ± 0.392 |
+| NoLA, oracle law | 0.877 ± 0.177 | 3.376 ± 1.415 |
+|   $+$whiteness $+$anchor, oracle law | 0.828 ± 0.080 | 1.492 ± 0.392 |
 | Supervised FT | 0.902 ± 0.123 | 0.220 ± 0.066 |
 |   $-$orthogonality (old full) | 0.717 ± 0.132 | 3.229 ± 1.327 |
 

diff --git a/README.md b/README.md
@@ -193,7 +193,7 @@ error from reconstruction mismatch.
 | Masked SSL-TTA | 40.45 ± 2.11 | −0.08 | 0.9232 | 0.607 | 0.2081 |
 | Global-Variance TTA | 43.34 ± 1.93 | +2.82 | 0.9647 | 0.438 | 0.6344 |
 | **NoLA** | **43.50 ± 1.83** | **+2.97** | 0.9665 | **0.150** | 0.0997 |
-| NoLA, oracle law | 43.48 ± 1.61 | +2.95 | 0.9672 | 0.305 | 0.0202 |
+| NoLA, oracle law | 43.64 ± 1.81 | +3.11 | 0.9673 | 0.279 | 0.0969 |
 | *Supervised fine-tune* | *45.06 ± 0.94* | *+4.53* | *0.9775* | *0.544* | *0.0707* |
 
 Against Noise2Inverse — the like-for-like label-free baseline, trained on the
@@ -213,6 +213,11 @@ worse than the unadapted source model (0.407)**. It matches the average
 variance and corrupts the structure. The signal-dependent law is what makes the
 adapted residual actually obey the target physics; on PSNR alone the margin is
 +0.15 dB.
+
+*Estimation is not the bottleneck:* the same objective run with the **true**
+target law instead of the estimate — the only thing changed — gives 43.64 dB,
++0.14 dB, on every slice. At 10 % dose the true law makes the adapted model
+*worse* (36.30 vs 38.91 dB): that failure is the regime, not the estimator.
 
 ---
 
